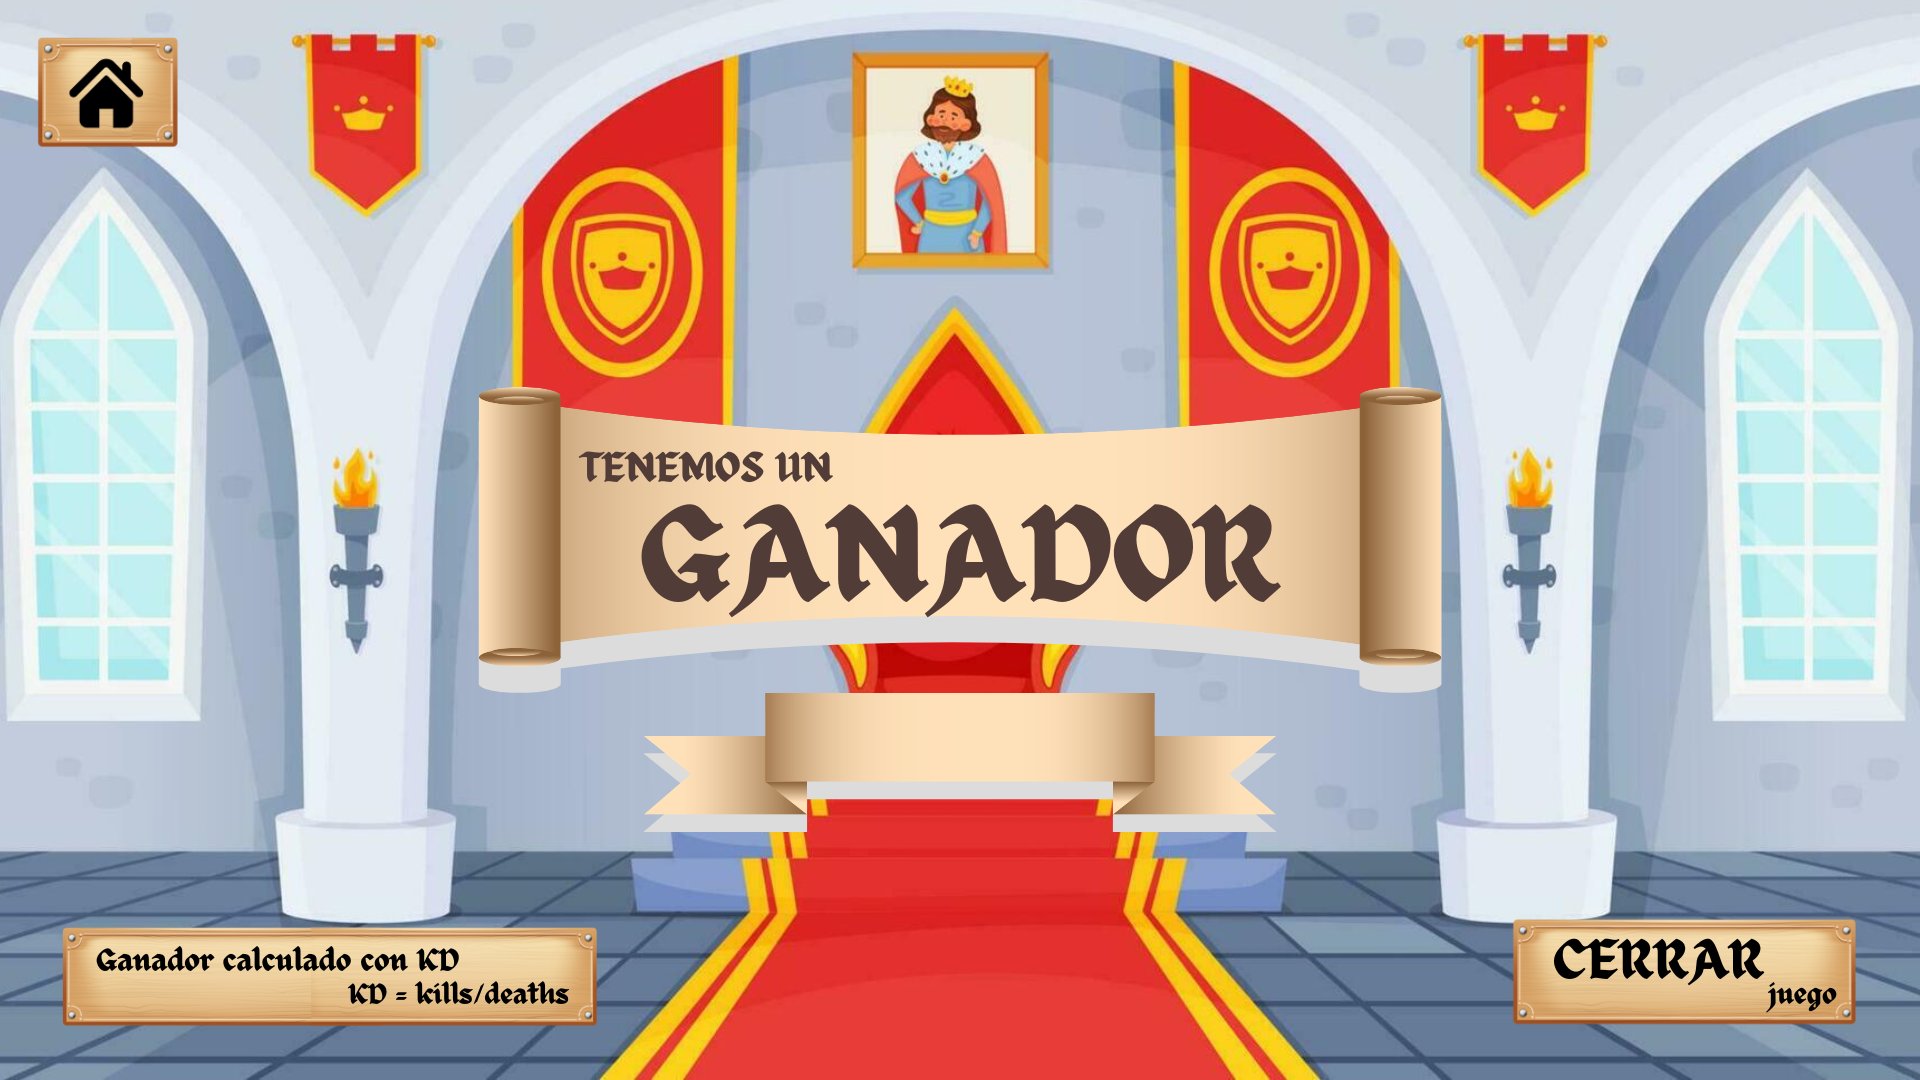
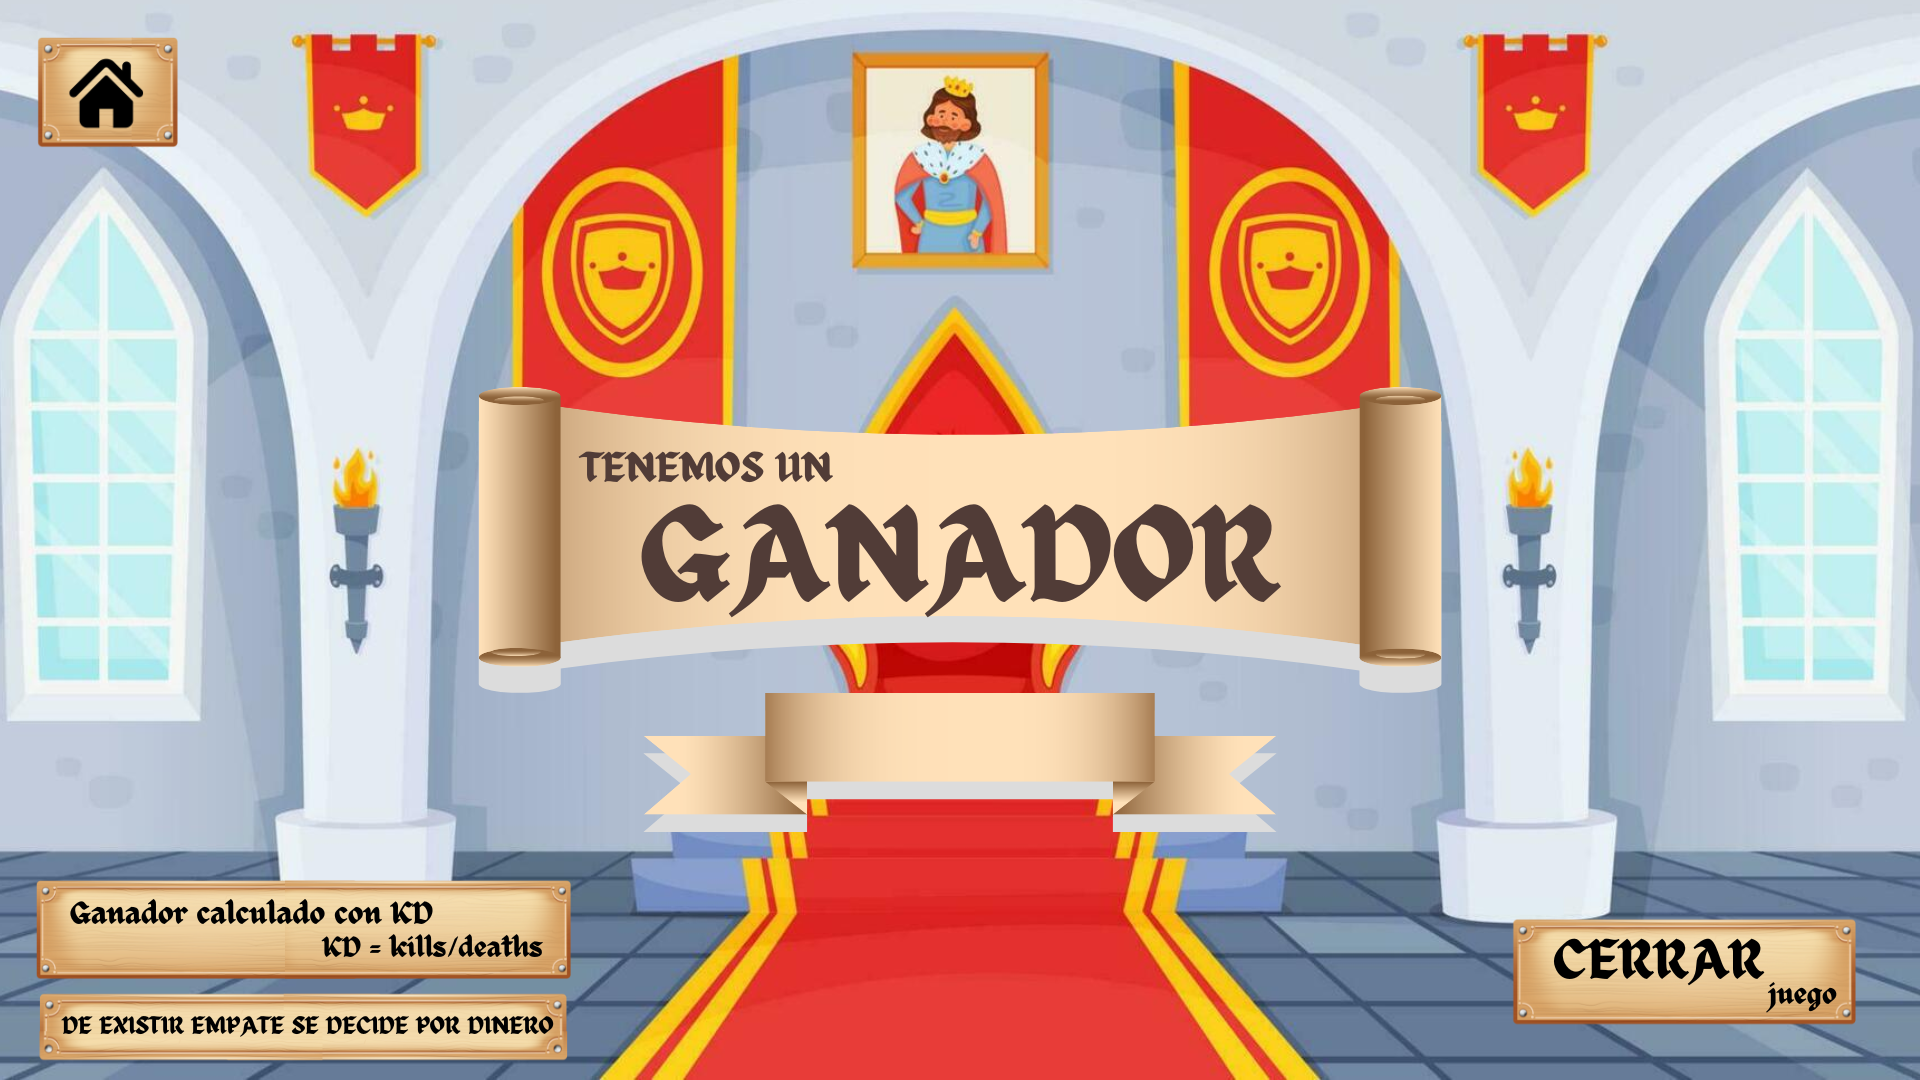
Version Final del juego.

Changed region(s): [[0.0, 0.7944, 0.3125, 1.0]]

diff --git a/gameScreens.py b/gameScreens.py
@@ -1,5 +1,6 @@
 import drawFunctions, pygame, params, scoreBoard, functions, proporciones, params,scoreBoard,math, sys
 from button import Button
+
 def pantallaEmpiezaJuego(screen, variableReseteo):
     drawFunctions.backgroundDraw(screen,'Pantallas/juegoPrev.png')
     WIDTH = params.size*16
@@ -23,3 +24,140 @@ def pantallaEmpiezaJuego(screen, variableReseteo):
                     run = False
         screen.blit(miniTankSurface,(int(WIDTH * 0.153), int(HEIGHT * 0.43)))
         pygame.display.update()
+        
+def controlesPausa(screen):
+    run = True
+    background = pygame.Surface((screen.get_width(),screen.get_height()))
+    drawFunctions.backgroundDraw(background,"Pantallas/ControlesPausa.png")
+    while run:
+        for event in pygame.event.get():
+            if event.type == pygame.QUIT:
+                run = False
+                pygame.quit()
+            if event.type == pygame.KEYDOWN:
+                if event.key == pygame.K_ESCAPE:
+                    run = False
+        screen.blit(background,(0,0))
+        pygame.display.update()
+        
+def pauseScreen(screen):
+    run = True
+    pantalla = 5
+    background = pygame.Surface((screen.get_width(),screen.get_height()))
+    drawFunctions.backgroundDraw(background,"Pantallas/Pausa.png")
+    bttns = crearBotonPausa(proporciones.listaProporciones)
+    while run:
+        for event in pygame.event.get():
+            if event.type == pygame.QUIT:
+                pygame.quit()
+                sys.exit()
+            #checkResize(event)
+            for btns in bttns:
+                for btn in btns:
+                    if btn.check_click(event):
+                        #controles menu
+                        if pantalla == 5:
+                            if btn.item == 15:
+                                print('Vuelve al juego')
+                                return None
+                            elif btn.item == 16:
+                                print('Vuelve al menu')
+                                return 4
+                            elif btn.item == 17:
+                                controlesPausa(screen)
+                                print('Controles pausa')
+                                #return 1
+                                pass
+                            elif btn.item == 18:
+                                print('salir')
+                                return -1
+        screen.blit(background,(0,0))
+        pygame.display.update()
+    
+def ganadorScreen(screen, colorGanador):
+    run = True
+    tanqueGanador = imgTankWinner(colorGanador,0.07)
+    background = pygame.Surface((screen.get_width(),screen.get_height()))
+    drawFunctions.backgroundDraw(background,"Pantallas/Ganador.png")
+    bttns = crearBotonPausa(proporciones.listaProporciones)
+    pantalla = 2
+    while run:
+        for event in pygame.event.get():
+            if event.type == pygame.QUIT:
+                pygame.quit()
+                sys.exit()
+            #checkResize(event)
+            for btns in bttns:
+                for btn in btns:
+                    if btn.check_click(event):
+                        #controles menu
+                       if pantalla == 2:
+                            if btn.item == 2:
+                                ##print('Volver al menu')
+                                return 4
+                                
+                            elif btn.item == 3:
+                                ##print('Cierra el juego')
+                                return -1
+        screen.blit(background,(0,0))
+        screen.blit(tanqueGanador.surfaceTank,(screen.get_width()*0.46,screen.get_height()*0.65))
+        pygame.display.update()
+            
+def crearBotonPausa(listaProporciones):
+    #resizeButtons
+    listaBotonesPantallas = []
+    pantalla = []
+    ID = 0
+    x = 0
+    print(x)
+    for screen in listaProporciones:
+        for prop in screen:
+            boton = Button(prop[x],prop[x+1],prop[x+2],prop[x+3],ID)
+            pantalla.append(boton)
+            ID+=1
+        listaBotonesPantallas.append(pantalla)
+        pantalla=[]
+    return listaBotonesPantallas
+
+class imgTankWinner:
+    def __init__(self,color,tankProportion):
+        self.WIDTH = params.size*16
+        self.HEIGHT = params.size*9
+        self.xpos = 0
+        self.ypos = 0
+        self.angulo = 0
+        self.color = color
+        self.xCanon1 = 0
+        self.yCanon1 = 0
+        self.xCanon2 = 0
+        self.yCanon2 = 0
+
+        self.tankProportion = tankProportion
+        self.surfaceTank = pygame.Surface((self.WIDTH*self.tankProportion, self.HEIGHT*self.tankProportion))
+        self.x = int(self.surfaceTank.get_width()*0.5)
+        self.y = int(self.surfaceTank.get_height()*0.8)
+        self.width = int(self.surfaceTank.get_width()*0.55)
+        self.height = int(self.surfaceTank.get_height()*0.55)
+        self.alphaColor = (255,0,255)
+        self.surfaceTank.fill(self.alphaColor)
+        self.surfaceTank.set_alpha()
+        self.surfaceTank.set_colorkey(self.alphaColor)
+        self.longitud = int(self.surfaceTank.get_width()*0.12) #largo del cañon
+        self.xCanon1 =self.x #coordenadas del cañon
+        self.yCanon1  = (self.y - self.height) - self.height/4
+        self.xCanon2 = (self.xCanon1 + self.longitud * math.cos(math.radians(self.angulo)))
+        self.yCanon2 = (self.yCanon1 - self.longitud * math.sin(math.radians(self.angulo)))
+        self.draw_tank()
+        
+    def draw_tank(self):
+        pygame.draw.polygon(self.surfaceTank, self.color, ((self.x, self.y), (self.x - self.width/2, self.y), (self.x - self.width/2, self.y - self.height),(self.x + self.width/2, self.y - self.height),(self.x + self.width/2, self.y),(self.x, self.y))) #rectangulo inicial
+        pygame.draw.polygon(self.surfaceTank, self.color, ((self.x, self.y - self.height), (self.x - self.width/3, self.y - self.height), (self.x - self.width/3, (self.y- self.height) - self.height/3),(self.x + self.width/3, (self.y- self.height) - self.height/3),(self.x + self.width/3, (self.y- self.height)))) #rectangulo donde estara el cañon
+        pygame.draw.circle(self.surfaceTank, self.color, ((self.x - self.width/2, self.y+1 - self.height/2)), self.height/2 + 1) #circunferencia de la izquierda
+        pygame.draw.circle(self.surfaceTank, self.color, ((self.x + self.width/2, self.y+1 - self.height/2)), self.height/2 + 1) #circunferencia de la derecha
+        pygame.draw.line(self.surfaceTank, self.color, (self.xCanon1, self.yCanon1), (self.xCanon2, self.yCanon2), int(self.surfaceTank.get_height()*0.04)) #cañon
+
+# pygame.init()
+# width = params.size*16
+# height = params.size*9
+# screen = pygame.display.set_mode((width,height))
+# print(ganadorScreen(screen,(255,0,0)))

diff --git a/functions.py b/functions.py
@@ -166,7 +166,8 @@ def run(img,propBotonesPantalla,pantalla):
                             if btn.item == 4:
                                 ##print('Confirmar seleccion')
                                 ##print('parte del juego')
-                                return 12
+                                if params.mapa != None:
+                                    return 12
                             elif btn.item == 5:
                                 params.mapa = random.choice(crearMapas())
                                 ##print('mapa random')
@@ -359,9 +360,29 @@ def determinarGanador(listaJugadores):
     for i in range(len(listaKD)):
         if listaKD[i].generalkda[1] < mayorBajas.generalkda[1]:
             mayorBajas = listaKD[i]
-    for i in range(len(listaJugadores)):
-        if mayorBajas == listaJugadores[i]:
-            return i
+    empate = True
+    for i in range(len(listaKD)):
+        for j in range(len(listaKD)):
+            if listaKD[i].generalkda[1] != listaKD[j].generalkda[1]:
+                empate = False
+    if not empate:
+        for i in range(len(listaJugadores)):
+            if mayorBajas == listaJugadores[i]:
+                return i
+    else:
+        mayorDinero = listaJugadores[0]
+        for i in range(len(listaJugadores)):
+            if listaJugadores[i].money > mayorDinero.money:
+                mayorDinero = listaJugadores[i]
+        for i in range(len(listaJugadores)):
+            if listaJugadores[i].money == mayorDinero.money:
+                listaKD.append(listaJugadores[i])
+        for i in range(len(listaKD)):
+            if listaKD[i].generalkda[1] < mayorDinero.generalkda[1]:
+                mayorDinero = listaKD[i]
+        for i in range(len(listaJugadores)):
+            if mayorDinero == listaJugadores[i]:
+                return i
 def devolverColores(listaColores):
     colores = []
     for i in range(len(listaColores)):

diff --git a/runShop.py b/runShop.py
@@ -1,4 +1,4 @@
-import pygame, sys,crearItems,params,player,time,functions
+import pygame, sys,crearItems,params,player,time,functions, gameScreens
 from button import Button
 from random import randint
 
@@ -215,6 +215,8 @@ def openShop(playerList,ia): #recibe una lista de jugadores
             showInventory(playerList[jugadorNormal])
             showStats(playerList[jugadorNormal])
             showMoney(playerList[jugadorNormal])
+            imagenTanque = gameScreens.imgTankWinner(playerList[jugadorNormal].tanque.color,0.08)
+            params.screen.blit(imagenTanque.surfaceTank,(params.screen.get_width()*0.007,params.screen.get_height()*0.015))
             pygame.display.update()
             # running = False
         else:
@@ -273,6 +275,8 @@ def openShop(playerList,ia): #recibe una lista de jugadores
             showInventory(playerList[player])
             showStats(playerList[player])
             showMoney(playerList[player])
+            imagenTanque = gameScreens.imgTankWinner(playerList[player].tanque.color,0.08)
+            params.screen.blit(imagenTanque.surfaceTank,(params.screen.get_width()*0.007,params.screen.get_height()*0.015))
             pygame.display.update()
     return 12
 

diff --git a/runGame.py b/runGame.py
@@ -20,7 +20,6 @@ class gameLogic:
 
         # drawFunctions.backgroundDraw(self.backGround,self.mapaIMG)
         self.backGround.blit(self.mapa.getMap()[0],(0,0))
-        print('a')
         self.screen.blit(self.backGround,(0,0))
         
         #Terreno
